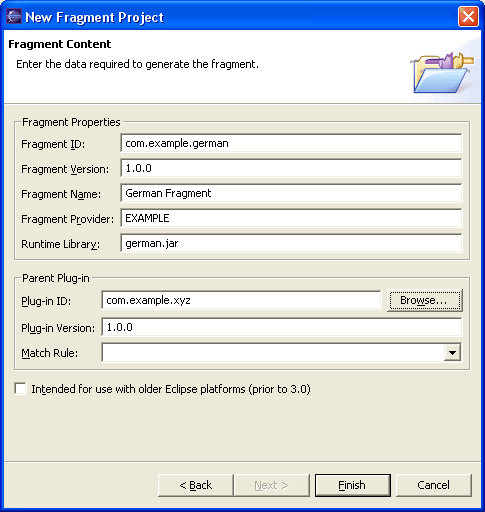
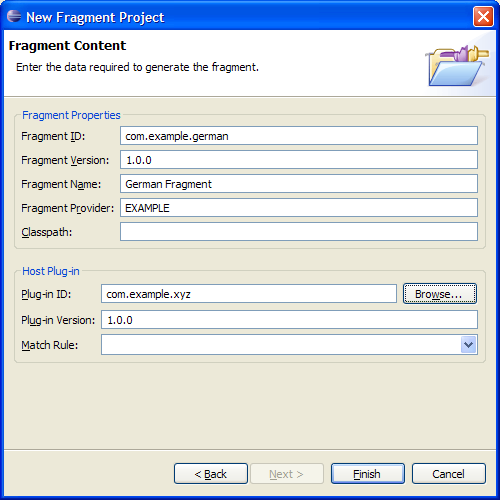
*** empty log message ***

diff --git a/bundles/org.eclipse.pde.doc.user/guide/pde_fragment_example.htm b/bundles/org.eclipse.pde.doc.user/guide/pde_fragment_example.htm
@@ -13,33 +13,22 @@
 <p>The PDE wizards and editors that manipulate plug-ins and fragments are nearly the
 same.&nbsp; However, you must be aware of some important differences.</p>
 <p>We start by creating a new fragment project.&nbsp;&nbsp;</p>
-<p>On the first page of the New Fragment Project wizard, type the project name &quot;com.example.german&quot;.&nbsp;
-Accept the default values and press
-<b>Next</b>. The &quot;Fragment Content&quot; page
-has three additional fields from the plug-in creation wizard: parent plug-in id, 
-parent plug-in version, and version match rule.</p>
-<p>Since we are writing a fragment for a specific 
-plug-in, we can use the <b>Browse</b> button to select 
-&quot;com.example.xyz&quot; in the plug-in selection dialog.  Using the dialog, we
-could have also chosen any external plug-in.</p>
+<p>On the first page of the New Fragment Project wizard, type the project name 
+  &quot;com.example.german&quot;.&nbsp; Accept the default values and press <b>Next</b>. 
+</p>
+<p>The <strong>Fragment Content</strong> page has three additional fields from 
+  the plug-in creation wizard: host plug-in id, parent plug-in version, and version 
+  match rule.</p>
+<p>Since we are writing a fragment for a specific plug-in, we can use the <b>Browse</b> 
+  button to select &quot;com.example.xyz&quot; in the plug-in selection dialog. 
+  Using the dialog, we could have also chosen any external plug-in.</p>
 <p align="center">
 <img border="0" src="images/fragment-content.png" alt="Fragment example - sample fragment content page" ></p>
-<p align="left">Once the project is created, it opens the fragment manifest
-editor.</p>
+<p align="left">Once the project is created, it opens the fragment manifest editor.</p>
 <p align="center">
 <img border="0" src="images/fragment-overview.png" alt="Fragment example - manifest overview"></p>
-<p align="left">
-It is almost identical to plug-in manifest editor with the following exceptions:</p>
-<ol>
-  <li>
-    In the Overview page, the &quot;class&quot; attribute is gone.&nbsp;
-    Fragments do not have a plug-in class since they follow the life cycle of
-    their parent plug-in.&nbsp; Instead, the parent plug-in id and version
-    fields are shown.</li>
-  <li>
-    A drop-down combo box labelled "Match Rule" allows for precise definition of the plug-in reference
-    (perfect, compatible, equivalent etc.).</li>
-</ol>
+<p align="left"> As opposed to a plug-in, a fragment does no have a plug-in class 
+  since they follow the life cycle of their host plug-in.</p>
 <p align="left">We will add a similar action set as in the plug-in example, but
 this time in German.</p>
 <ol>
